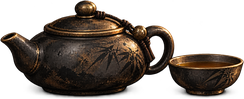
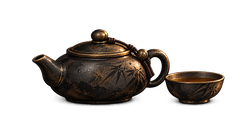
Foreground: use the artists' original files at their true aspect (v1 delivery had squashed them), sword and book lower-left, teapot lower-right

diff --git a/docs/system_menu/素材收件記錄_道具頁.md b/docs/system_menu/素材收件記錄_道具頁.md
@@ -87,3 +87,13 @@
 - 說明、驗證 json、預覽圖在 `docs/system_menu/fg_shadow_v1/`；實機截圖 `screens/inv_with_foreground_v1.png`、`inv_foreground_corners_v1.png`。
 - **沒有交**：燭火動畫（選配）、原尺寸 2432×1424 的背景、其餘 13 組通用圖。
 - 等第二版。
+
+---
+
+## 前景改用原檔（2026-10-19，使用者提供 4 張原檔）
+
+- **發現**：美術第一版的前景為了塞進安全區，被**垂直壓扁**（劍原檔 2.7:1 → 交付 5.5:1；書 1.64 → 2.04；茶壺 2.06 → 2.46）。
+- **處理**：劍、書、茶壺改用**原檔等比縮放**（`tools/build_foreground_from_originals.gd`，原檔在 `docs/system_menu/fg_originals/`），位置在 `StudyShell.FOREGROUND`（劍略低於畫面底、被邊緣切掉一點，更有近景感）。
+- 美術第一版的四件留在 `assets/UI/inventory/fg_artist_v1/`（沒有使用，只是存檔）。
+- 燈籠（`fg_candle`）仍用美術的窄邊版。
+- **請告訴美術**：前景**不要壓扁**；安全區不夠放就等比縮小，或讓物件被畫面邊緣切掉一部分。
